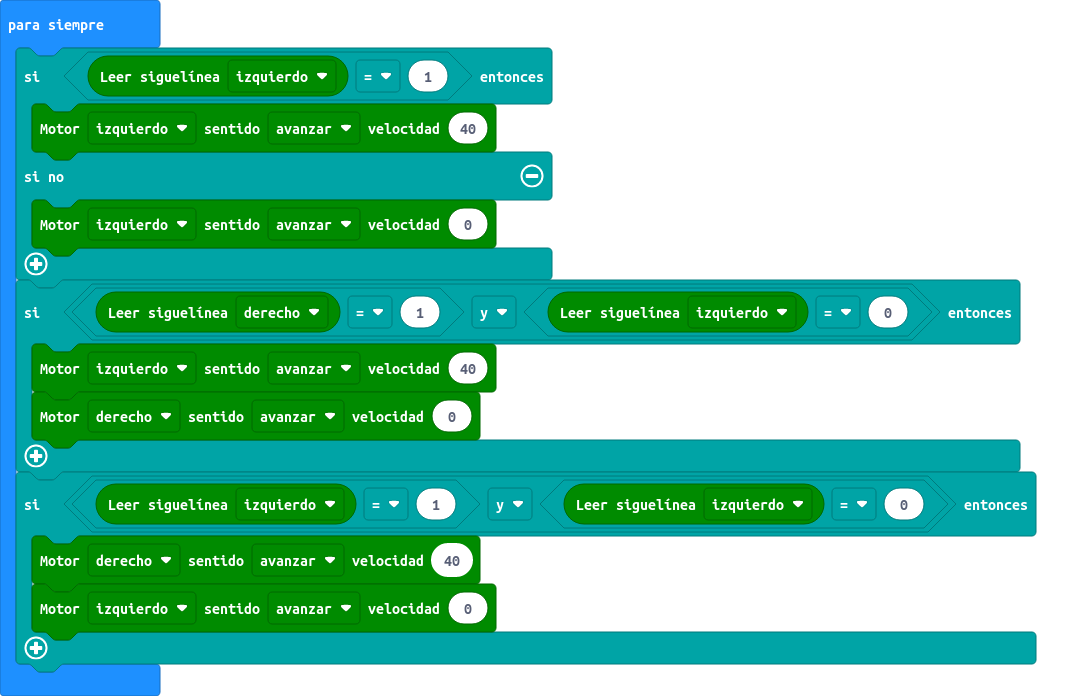
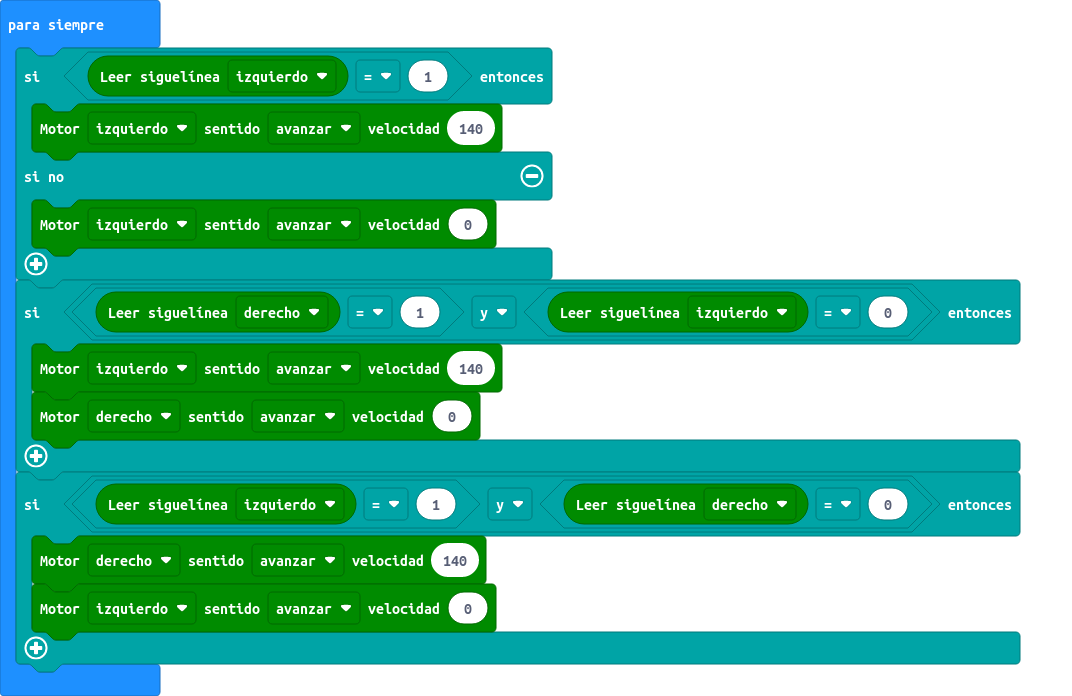
eiofjgoiwerjgiojweiogjre

diff --git a/main.ts b/main.ts
@@ -1,15 +1,15 @@
 basic.forever(function () {
     if (maqueen.readPatrol(maqueen.Patrol.PatrolLeft) == 1) {
-        maqueen.motorRun(maqueen.Motors.M1, maqueen.Dir.CW, 40)
+        maqueen.motorRun(maqueen.Motors.M1, maqueen.Dir.CW, 140)
     } else {
         maqueen.motorRun(maqueen.Motors.M1, maqueen.Dir.CW, 0)
     }
     if (maqueen.readPatrol(maqueen.Patrol.PatrolRight) == 1 && maqueen.readPatrol(maqueen.Patrol.PatrolLeft) == 0) {
-        maqueen.motorRun(maqueen.Motors.M1, maqueen.Dir.CW, 40)
+        maqueen.motorRun(maqueen.Motors.M1, maqueen.Dir.CW, 140)
         maqueen.motorRun(maqueen.Motors.M2, maqueen.Dir.CW, 0)
     }
-    if (maqueen.readPatrol(maqueen.Patrol.PatrolLeft) == 1 && maqueen.readPatrol(maqueen.Patrol.PatrolLeft) == 0) {
-        maqueen.motorRun(maqueen.Motors.M2, maqueen.Dir.CW, 40)
+    if (maqueen.readPatrol(maqueen.Patrol.PatrolLeft) == 1 && maqueen.readPatrol(maqueen.Patrol.PatrolRight) == 0) {
+        maqueen.motorRun(maqueen.Motors.M2, maqueen.Dir.CW, 140)
         maqueen.motorRun(maqueen.Motors.M1, maqueen.Dir.CW, 0)
     }
 })
